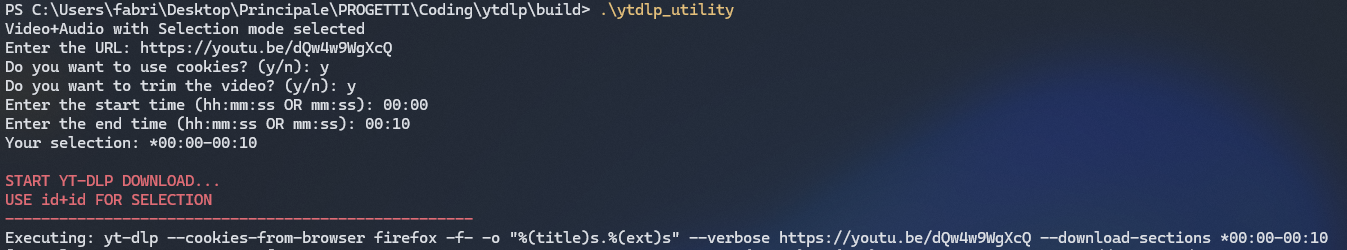
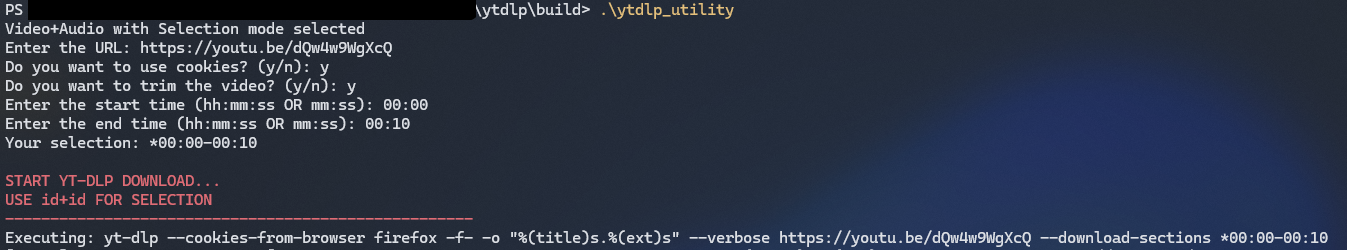
2

Changed region(s): [[0.0, 0.0, 0.3742, 0.084]]

diff --git a/src/main.cpp b/src/main.cpp
@@ -1,9 +1,7 @@
 #include <iostream>
-#include <filesystem>
 #include "../include/yt_dlp_utils.h"
 
 using namespace std;
-namespace fs = std::filesystem;
 
 #define RESET   "\033[0m"
 #define RED     "\033[31m"
@@ -170,7 +168,7 @@ int handlePlaylistMode(){
     
     cout << RED << "\nSTART YT-DLP DOWNLOAD..." << RESET << endl;
     cout << RED << "----------------------------------------------------" << RESET << endl;
-    
+ 
     if (choice == 1) {
         downloadPlaylistAudioMp3WithThumbnailAndEnumeration(URL);
     } else if (choice == 2) {
@@ -180,12 +178,11 @@ int handlePlaylistMode(){
     } else if (choice == 4) {
         downloadPlaylistBestVideoAudio(URL);
     }
-    
+ 
     else {
         cout << "Invalid choice" << endl;
         return 1;
     }
-
 
     return 0;
 }
@@ -257,16 +254,16 @@ int main(int argc, char* argv[]) {
         } else if (arg == "--sub") {
             handleSubtitlesMode();
         }
-        
+
         else {
             cout << "Invalid argument" << endl;
             return 1;
         }
-        
+
     }
-    
+ 
     cout << GREEN << "----------------------------------------------------" << RESET << endl;
     cout << GREEN << "END YT-DLP UTILITY EXECUTION..." << RESET << endl;
     pauseApplication();
     return 0;
-}    
+}
